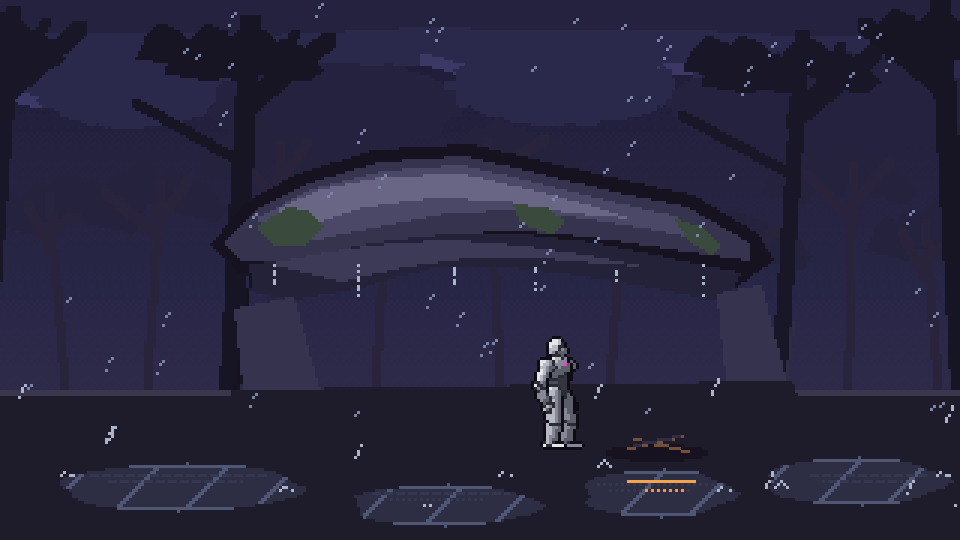
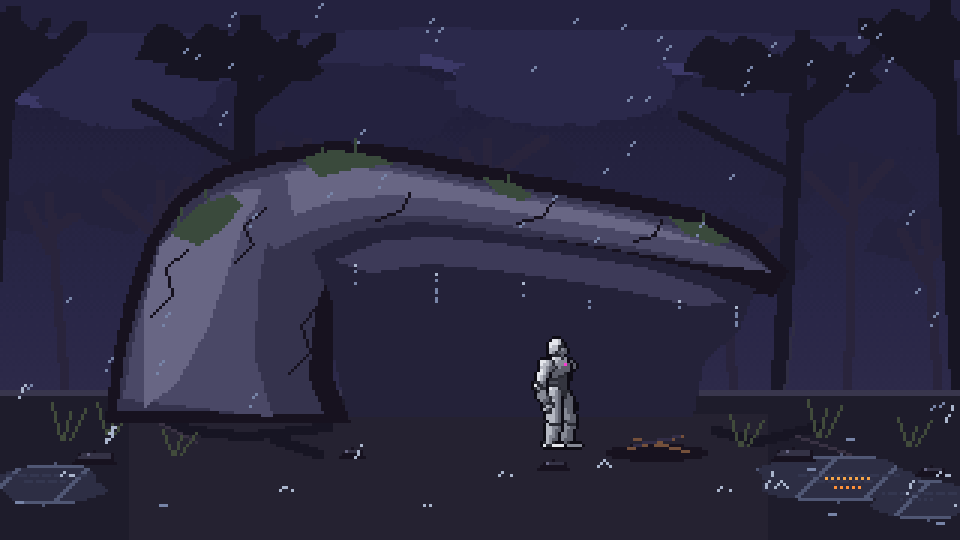
Ground the storm shelter and improve storm details

diff --git a/src/game/scene/rest.js b/src/game/scene/rest.js
@@ -71,10 +71,11 @@ function makeBackground(kind, night) {
   drawTreeLayers(bg, kind);
   if (kind === "storm") {
     // Wet forest floor with long puddles holding a blue-violet reflection.
-    const puddles = [[60, 162, 40, 8], [148, 168, 31, 7], [219, 164, 25, 8], [285, 160, 30, 8]];
+    const puddles = [[16, 161, 18, 7], [278, 159, 26, 8], [307, 166, 16, 7]];
     for (let y = 130; y < H; y++) for (let x = 0; x < W; x++) {
       const edge = y === 130 || y === 131;
-      bg[y * W + x] = edge ? pal.groundTop : pal.ground;
+      const dry = x >= 43 && x <= 255 && y >= 138;
+      bg[y * W + x] = edge ? pal.groundTop : dry ? mix(pal.ground, hex("#302b3a"), 0.42) : pal.ground;
       for (let i = 0; i < puddles.length; i++) {
         const [cx, cy, rx, ry] = puddles[i], dy = Math.abs(y - cy);
         const wobble = Math.round(Math.sin(y * 0.7 + i * 3) * 2), width = rx * Math.sqrt(Math.max(0, 1 - (dy / ry) ** 2));
@@ -85,6 +86,7 @@ function makeBackground(kind, night) {
         }
       }
     }
+    drawStormGround(bg, pal);
   } else {
     // Lake occupies the middle distance; the foreground shore remains a clear place for the heroine and fire.
     for (let y = 101; y < 151; y++) for (let x = 0; x < W; x++) {
@@ -166,6 +168,35 @@ function drawStormClouds(buf) {
   ]) cloudMass(buf, x, y, rx, ry, c, s);
 }
 
+function drawStormGround(buf, pal) {
+  const root = hex("#171523"), rootLit = hex("#393243"), grass = hex("#414b3b"), stone = hex("#343245");
+  // Roots crawl out of the cliff and break up the ground line; the space under the roof stays comparatively dry.
+  lineBuffer(buf, 48, 137, 63, 143, root, 3);
+  lineBuffer(buf, 63, 143, 81, 145, root, 2);
+  lineBuffer(buf, 82, 145, 109, 142, root, 2);
+  lineBuffer(buf, 52, 140, 65, 147, rootLit, 1);
+  lineBuffer(buf, 91, 146, 106, 151, root, 2);
+  lineBuffer(buf, 238, 143, 252, 147, root, 2);
+  lineBuffer(buf, 251, 147, 272, 142, root, 2);
+  lineBuffer(buf, 265, 145, 283, 151, rootLit, 1);
+  for (const [x, y, w] of [[20, 146, 12], [35, 144, 10], [57, 151, 8], [246, 148, 10], [272, 145, 12], [302, 148, 9]]) {
+    lineBuffer(buf, x, y, x - 3, y - w, grass, 1);
+    lineBuffer(buf, x + 1, y, x + 3, y - w * 0.72, grass, 1);
+    lineBuffer(buf, x + 3, y, x + 8, y - w * 0.85, grass, 1);
+  }
+  for (const [x, y, w, h] of [[31, 154, 7, 3], [117, 152, 4, 2], [184, 156, 5, 2], [264, 153, 7, 3], [310, 158, 5, 2]]) {
+    fillPolyBuffer(buf, [[x - w, y], [x - w + 2, y - h], [x, y - h - 1], [x + w - 1, y - h], [x + w, y], [x + 2, y + 1]], INK);
+    fillPolyBuffer(buf, [[x - w + 1, y - 1], [x - w + 3, y - h], [x, y - h], [x + w - 2, y - h], [x + w - 1, y - 1]], stone);
+    putBuffer(buf, x - 2, y - h, pal.rockLit);
+  }
+  // Fine rain sheen and scattered leaf litter on the exposed, wet patches.
+  for (let i = 0; i < 35; i++) {
+    const x = Math.floor(rand(332, i, 1) * W), y = 140 + Math.floor(rand(332, i, 2) * 35);
+    if (x > 64 && x < 245) continue;
+    if (rand(332, i, 3) > 0.45) lineBuffer(buf, x, y, x + 2, y, pal.rain, 1);
+  }
+}
+
 function drawTreeLayers(buf, kind) {
   const farTrunk = kind === "storm" ? hex("#29243c") : hex("#322d43");
   const farCanopy = kind === "storm" ? hex("#24223d") : hex("#2b293f");
@@ -245,33 +276,41 @@ export function createRest(kind, { night = false } = {}) {
   }
 
   function drawShelter(p) {
-    // A heavy rock lip and deep underside wrap over the resting place like a shallow cave.
-    const rock = [[70, 82], [81, 68], [99, 58], [125, 50], [157, 48], [182, 54], [208, 60], [231, 65], [253, 78], [258, 87], [245, 96], [222, 91], [198, 87], [174, 84], [150, 86], [124, 91], [100, 94], [80, 91]];
-    p.poly(rock, INK);
-    p.poly([[75, 81], [85, 70], [103, 61], [127, 54], [155, 52], [180, 58], [205, 64], [229, 69], [250, 81], [250, 87], [223, 83], [197, 79], [173, 77], [149, 78], [122, 83], [98, 87], [81, 87]], pal.rock);
-    p.poly([[85, 73], [104, 63], [128, 57], [154, 55], [179, 61], [203, 67], [225, 72], [240, 81], [220, 77], [196, 73], [174, 70], [150, 71], [124, 76], [101, 81]], pal.rockMid);
-    p.poly([[92, 70], [107, 63], [128, 59], [154, 58], [176, 63], [195, 68], [211, 73], [190, 71], [168, 67], [145, 66], [122, 69], [104, 75]], pal.rockLit);
-    // Ink-dark cave ceiling under the lip, with a broken moss edge and three stone facets.
-    p.poly([[83, 88], [102, 86], [124, 81], [149, 78], [174, 78], [199, 81], [223, 86], [247, 91], [242, 101], [218, 96], [194, 92], [169, 89], [145, 89], [120, 96], [98, 100], [83, 97]], pal.shelter);
-    p.poly([[90, 88], [109, 84], [132, 81], [151, 80], [175, 82], [196, 85], [216, 89], [202, 88], [180, 86], [157, 86], [135, 89], [114, 94]], pal.shelterTop);
-    p.poly([[85, 76], [96, 69], [103, 70], [108, 76], [102, 82], [92, 82]], pal.moss);
-    p.poly([[171, 68], [182, 69], [189, 74], [184, 78], [174, 75]], pal.moss);
-    p.poly([[225, 73], [235, 76], [241, 82], [237, 85], [229, 80]], pal.moss);
-    p.line(83, 91, 78, 132, INK, 2); p.line(78, 132, 91, 137, pal.rock);
-    p.poly([[78, 103], [98, 99], [107, 131], [82, 138]], pal.rock);
-    p.poly([[239, 98], [254, 95], [263, 130], [243, 137]], pal.rock);
-    p.poly([[77, 130], [264, 127], [268, 137], [75, 140]], pal.ground);
+    // One grounded cliff mass rises on the left and rolls out into a long, heavy roof.
+    const cliff = [[35, 141], [38, 117], [42, 99], [49, 80], [58, 66], [72, 56], [91, 50], [112, 47], [134, 49], [156, 54], [181, 59], [208, 64], [234, 70], [252, 79], [263, 90], [258, 99], [239, 95], [217, 91], [194, 87], [171, 84], [148, 81], [129, 82], [118, 89], [112, 106], [111, 126], [117, 141]];
+    p.poly(cliff, INK);
+    p.poly([[39, 137], [42, 116], [47, 98], [53, 81], [62, 68], [76, 59], [94, 54], [113, 52], [134, 54], [156, 59], [181, 64], [208, 69], [233, 75], [249, 83], [257, 90], [239, 89], [216, 85], [193, 81], [170, 78], [147, 76], [127, 77], [113, 84], [105, 103], [103, 126], [108, 138]], pal.rock);
+    // Sloped wall facets climb continuously into the overhang; the cave opening is inset behind the heroine.
+    p.poly([[41, 133], [45, 111], [51, 91], [59, 75], [71, 65], [87, 59], [102, 57], [91, 72], [86, 95], [85, 119], [91, 139]], pal.rockMid);
+    p.poly([[48, 102], [53, 83], [65, 70], [78, 64], [90, 62], [82, 73], [76, 91], [69, 110], [59, 128], [48, 136]], pal.rockLit);
+    p.poly([[88, 59], [104, 54], [123, 54], [146, 59], [171, 64], [197, 69], [223, 75], [246, 84], [258, 91], [238, 88], [215, 83], [191, 79], [168, 75], [145, 72], [123, 72], [104, 77], [92, 83], [84, 76]], pal.rockMid);
+    p.poly([[95, 58], [110, 55], [128, 57], [149, 61], [171, 66], [194, 70], [217, 75], [237, 82], [219, 79], [196, 75], [173, 71], [151, 67], [130, 65], [111, 67], [98, 72]], pal.rockLit);
+    // Deep, ink-shaded cave ceiling and back wall; there is no detached slab or support post.
+    p.poly([[104, 84], [119, 77], [138, 74], [159, 76], [183, 80], [207, 84], [232, 90], [252, 96], [246, 111], [235, 120], [231, 139], [116, 139], [111, 118], [111, 101]], pal.shelter);
+    p.poly([[111, 87], [128, 80], [146, 79], [166, 81], [190, 85], [214, 89], [236, 96], [243, 101], [231, 102], [209, 97], [186, 93], [164, 90], [143, 88], [124, 91]], pal.shelterTop);
+    // Tinted stone seams, fractured edges and a few lichen patches anchor the hand-built cliff.
+    p.polyline([[50, 105], [57, 98], [55, 89], [62, 83]], INK);
+    p.polyline([[78, 87], [84, 81], [81, 75], [88, 69]], INK);
+    p.polyline([[96, 124], [103, 117], [100, 108], [106, 101]], INK);
+    p.polyline([[125, 73], [133, 70], [136, 64]], INK);
+    p.polyline([[172, 74], [180, 72], [184, 67]], INK);
+    p.polyline([[211, 80], [218, 78], [220, 73]], INK);
+    p.poly([[57, 78], [67, 68], [77, 65], [81, 68], [75, 76], [66, 82]], pal.moss);
+    p.poly([[100, 53], [111, 50], [126, 52], [132, 55], [119, 56], [107, 59]], pal.moss);
+    p.poly([[161, 59], [171, 61], [178, 65], [174, 67], [165, 64]], pal.moss);
+    p.poly([[222, 72], [235, 75], [244, 80], [239, 82], [229, 78]], pal.moss);
+    for (const [x, y, h] of [[59, 74, 5], [69, 67, 4], [108, 53, 4], [118, 52, 6], [169, 63, 5], [233, 76, 5]])
+      p.line(x, y, x + ((x % 3) - 1), y - h, pal.moss);
     if (lit) {
-      // Warm bounce catches the underside and a nearby floor patch in gold without washing out stone texture.
-      p.glow(fireX - 37, 82, 88, pal.glow, 0.27);
-      p.glow(fireX - 20, 127, 68, pal.ember, 0.22);
-      p.poly([[195, 84], [211, 86], [222, 91], [212, 91], [197, 89]], pal.ember);
-      p.poly([[223, 92], [246, 96], [257, 103], [240, 101]], pal.glow);
+      // Firelight stays in the additive light buffer and only softly warms the underside of the cliff.
+      p.glow(202, 88, 59, pal.glow, 0.15);
+      p.glow(218, 135, 52, pal.ember, 0.1);
     }
-    // Moss threads across the drip lip; water gathers and falls in broken bright streaks.
-    for (const [x, len] of [[91, 5], [119, 9], [151, 5], [178, 8], [205, 6], [234, 10]]) {
-      p.px(x, 88 + Math.floor((x % 13) / 5), pal.rainNear);
-      for (let y = 90; y < 90 + len; y++) if ((y + x) % 3 !== 0) p.dot(x, y, pal.rainNear, 0.7);
+    // Water runs off the broken rock lip in narrow drops.
+    for (const [x, len] of [[118, 7], [145, 10], [174, 6], [196, 9], [226, 6], [245, 8]]) {
+      const edgeY = 88 + Math.round((x - 118) * 0.11);
+      p.dot(x, edgeY, pal.rainNear, 0.75);
+      for (let y = edgeY + 2; y < edgeY + len; y++) if ((y + x) % 3 !== 0) p.dot(x, y, pal.rain, 0.58);
     }
   }
 
@@ -345,6 +384,7 @@ export function createRest(kind, { night = false } = {}) {
       const seed = front ? 800 : 700, phase = (time * (front ? 31 : 25) + rand(seed, i, 1) * 180) % 180;
       const x = (Math.floor(rand(seed, i, 2) * W) - Math.floor(phase * 0.22) + W) % W;
       const y = phase - 16;
+      if (x >= 108 && x <= 245 && y >= 82 && y < 141) continue;
       if (front && y < 126) continue;
       if (!front && y > 136) continue;
       const c = front ? pal.rainNear : pal.rain;
@@ -376,13 +416,13 @@ export function createRest(kind, { night = false } = {}) {
 
   function drawStormPuddles(p) {
     const reflect = flash > 0.08 ? pal.rainNear : pal.puddle;
-    for (const [x, y, width] of [[30, 158, 58], [124, 164, 45], [198, 161, 40], [269, 158, 39]]) {
+    for (const [x, y, width] of [[2, 158, 27], [266, 158, 33], [294, 164, 25]]) {
       p.line(x, y, x + width, y, reflect, flash > 0.08 ? 0.86 : 0.6);
       p.line(x + 5, y + 2, x + width - 8, y + 2, pal.puddle, 0.55);
     }
     // Amber streaks mirror the campfire in the nearest pools.
-    p.line(209, 160, 231, 160, pal.ember, 0.8);
-    p.line(214, 163, 227, 163, pal.glow, 0.52);
+    p.line(274, 159, 290, 159, pal.ember, 0.8);
+    p.line(278, 162, 287, 162, pal.glow, 0.52);
     for (let i = 0; i < 6; i++) {
       const x = (i * 59 + Math.floor(time * 19)) % W, y = 155 + (i % 3) * 7;
       const pulse = 0.45 + 0.4 * Math.sin(time * 4 + i);
@@ -393,7 +433,9 @@ export function createRest(kind, { night = false } = {}) {
 
   function drawLightning(p) {
     if (flash <= 0.04) return;
-    const cx = 65 + Math.floor(rand(253, Math.floor(nextFlash), 2) * 195), base = 48 + Math.floor(rand(253, Math.floor(nextFlash), 3) * 24);
+    const seed = Math.floor(nextFlash), side = rand(253, seed, 4);
+    const cx = side < 0.5 ? 12 + Math.floor(rand(253, seed, 2) * 22) : 275 + Math.floor(rand(253, seed, 2) * 35);
+    const base = 48 + Math.floor(rand(253, seed, 3) * 30);
     const bolt = [[cx, -1], [cx - 5, 15], [cx + 2, 18], [cx - 8, 36], [cx + 1, base], [cx - 2, 27], [cx - 8, 25], [cx, -1]];
     p.polyline(bolt, hex("#c6c8ed"), Math.min(0.9, flash));
     p.polyline([[cx - 3, 16], [cx - 12, 23], [cx - 15, 31], [cx - 22, 37]], hex("#aab5d0"), flash * 0.8);
@@ -415,8 +457,8 @@ export function createRest(kind, { night = false } = {}) {
       if (kind === "storm") {
         if (time >= nextFlash) {
           const age = time - nextFlash;
-          flash = age < 0.48 ? Math.min(1, Math.exp(-age * 6) * (age < 0.12 ? 0.9 : 0.48)) : 0;
-          if (age >= 0.48) nextFlash += (night ? 8 : 6) + rand(254, Math.floor(nextFlash), night ? 1 : 0) * (night ? 7 : 9);
+          flash = age < 0.18 ? Math.min(1, Math.exp(-age * 8) * (age < 0.08 ? 0.95 : 0.68)) : 0;
+          if (age >= 0.18) nextFlash += (night ? 8 : 6) + rand(254, Math.floor(nextFlash), night ? 1 : 0) * (night ? 7 : 9);
         }
       }
       if (ignition > -Infinity && time - ignition >= 1.5) lit = true;

diff --git a/tests/rest.test.js b/tests/rest.test.js
@@ -54,6 +54,17 @@ describe("rest scenes", () => {
     }
   });
 
+  it("keeps each lightning illumination brief", () => {
+    const rest = createRest("storm"), base = rest.background().slice(), active = [];
+    for (let t = 0; t < 9; t += 0.01) {
+      rest.update(0.01);
+      if (differs(rest.background(), base)) active.push(Number((t + 0.01).toFixed(2)));
+    }
+    expect(active.length).toBeGreaterThan(0);
+    expect(active.at(-1) - active[0] + 0.01).toBeGreaterThanOrEqual(0.14);
+    expect(active.at(-1) - active[0] + 0.01).toBeLessThanOrEqual(0.2);
+  });
+
   it("keeps the lake night darker than dusk and includes the additional stars", () => {
     const dusk = createRest("lake"), night = createRest("lake", { night: true });
     expect(dusk.background()).not.toEqual(night.background());
